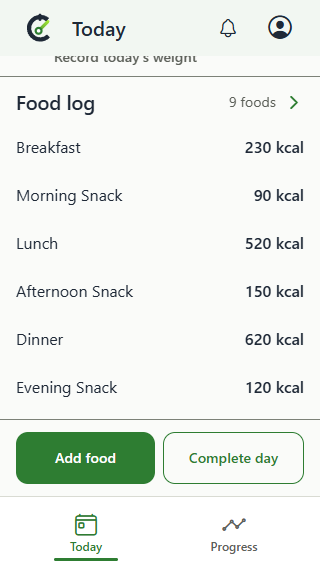
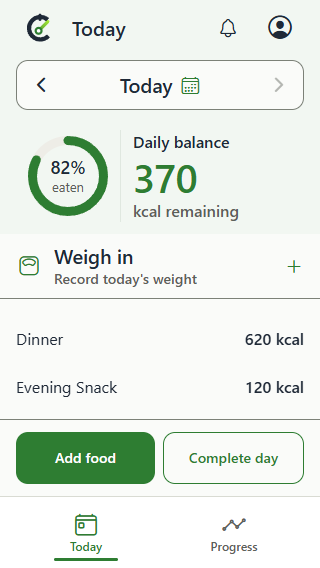
Keep Today summary fixed while the food log scrolls

diff --git a/mobile/src/components/FixedPage.tsx b/mobile/src/components/FixedPage.tsx
@@ -21,7 +21,7 @@ type FixedPageProps = {
     children: React.ReactNode | ((layout: FixedPageLayout) => React.ReactNode);
     footer?: React.ReactNode | ((layout: FixedPageLayout) => React.ReactNode);
     scrollWhenShort?: boolean;
-    intrinsicBody?: boolean;
+    containedBody?: boolean;
     minBodyHeight?: number;
     contentWidth?: 'overview' | 'wide';
     fullWidthBody?: boolean;
@@ -30,7 +30,7 @@ type FixedPageProps = {
 };
 
 /** A full-page composition within the measured app shell; tabs already own the bottom inset. */
-export function FixedPage({ context, children, footer, scrollWhenShort = false, intrinsicBody = false, minBodyHeight = 120, contentWidth = 'overview', fullWidthBody = false, fullWidthFooter = false, testID }: FixedPageProps) {
+export function FixedPage({ context, children, footer, scrollWhenShort = false, containedBody = false, minBodyHeight = 120, contentWidth = 'overview', fullWidthBody = false, fullWidthFooter = false, testID }: FixedPageProps) {
     const theme = useAppTheme();
     const insets = useSafeAreaInsets();
     const { width, fontScale } = useWindowDimensions();
@@ -55,30 +55,36 @@ export function FixedPage({ context, children, footer, scrollWhenShort = false, 
     const updateHeight = (event: LayoutChangeEvent) => setHeight(event.nativeEvent.layout.height);
     const naturalHeight = contextHeight + minBodyHeight;
     const contentHeight = Math.max(scrollHeight, naturalHeight);
+    const containBody = containedBody && !expanded;
     const footerContent = typeof footer === 'function' ? footer({ expanded }) : footer;
+
+    const pageContent = <>
+        {context && <View style={{ backgroundColor: theme.colors.summaryContainer }} onLayout={(event) => setContextHeight(event.nativeEvent.layout.height)}>
+            <View style={columnStyle}>{context}</View>
+        </View>}
+        <View style={[!fullWidthBody && columnStyle, styles.body, { minHeight: minBodyHeight }, expanded && styles.bodyExpanded, containBody && styles.bodyContained]}>
+            {typeof children === 'function' ? children({ expanded }) : children}
+        </View>
+        {expanded && footerContent && <View style={[styles.footer, { borderTopColor: theme.colors.outline }]}><View style={!fullWidthFooter && columnStyle}>{footerContent}</View></View>}
+    </>;
 
     return <ColumnStyleContext.Provider value={columnStyle}><View testID={testID} style={[styles.root, { backgroundColor: theme.colors.background }]} onLayout={updateHeight}>
         {Platform.OS === 'web' && <Text ref={probe} aria-hidden accessibilityElementsHidden importantForAccessibility="no-hide-descendants" onLayout={readTextScale} style={styles.probe}>M</Text>}
-        <ScrollView
+        {containBody ? <View role="main" testID="fixed-page-content" style={styles.scroller}>
+            {pageContent}
+        </View> : <ScrollView
             role="main"
             testID="fixed-page-scroll"
             style={styles.scroller}
-            contentContainerStyle={[styles.scrollContent, !expanded && scrollHeight > 0 && (intrinsicBody
-                ? { minHeight: contentHeight }
-                : { height: contentHeight })]}
+            contentContainerStyle={[styles.scrollContent, !expanded && scrollHeight > 0 && { height: contentHeight }]}
             onLayout={(event) => { setScrollHeight(event.nativeEvent.layout.height); readTextScale(); }}
             keyboardShouldPersistTaps="handled"
         >
-            {context && <View style={{ backgroundColor: theme.colors.summaryContainer }} onLayout={(event) => setContextHeight(event.nativeEvent.layout.height)}>
-                <View style={columnStyle}>{context}</View>
-            </View>}
-            <View style={[!fullWidthBody && columnStyle, styles.body, { minHeight: minBodyHeight }, expanded && styles.bodyExpanded, intrinsicBody && styles.bodyIntrinsic]}>
-                {typeof children === 'function' ? children({ expanded }) : children}
-            </View>
-            {expanded && footerContent && <View style={[styles.footer, { borderTopColor: theme.colors.outline }]}><View style={!fullWidthFooter && columnStyle}>{footerContent}</View></View>}
-        </ScrollView>
+            {pageContent}
+        </ScrollView>}
         {!expanded && footerContent && <View style={[styles.footer, { borderTopColor: theme.colors.outline }]}><View style={!fullWidthFooter && columnStyle}>{footerContent}</View></View>}
     </View></ColumnStyleContext.Provider>;
+
 }
 
 const styles = StyleSheet.create({
@@ -88,8 +94,8 @@ const styles = StyleSheet.create({
     column: { width: '100%', alignSelf: 'center', minWidth: 0 },
     body: { flex: 1 },
     bodyExpanded: { flexGrow: 0, flexShrink: 0, flexBasis: 'auto' },
-    // Summary rows set their own height; unused space still belongs to the full-width body.
-    bodyIntrinsic: { flexGrow: 1, flexShrink: 0, flexBasis: 'auto' },
+    // Let the body own scrolling within the space left by the fixed context and footer.
+    bodyContained: { minHeight: 0, overflow: 'hidden' },
     footer: { flexShrink: 0, borderTopWidth: StyleSheet.hairlineWidth },
     probe: { position: 'absolute', opacity: 0, fontSize: TEXT_PROBE_SIZE, pointerEvents: 'none' }
 });

diff --git a/mobile/src/today/TodayFoodPreview.tsx b/mobile/src/today/TodayFoodPreview.tsx
@@ -1,5 +1,5 @@
 import React from 'react';
-import { Pressable, StyleSheet, View, type StyleProp, type ViewStyle } from 'react-native';
+import { Pressable, ScrollView, StyleSheet, View, type StyleProp, type ViewStyle } from 'react-native';
 import Ionicons from '@expo/vector-icons/Ionicons';
 import type { FoodLogEntry } from '@calibrate/api-client';
 import { AppText } from '../components/AppText';
@@ -13,9 +13,10 @@ type TodayFoodPreviewProps = {
     entries: FoodLogEntry[];
     onPress: () => void;
     style?: StyleProp<ViewStyle>;
+    expanded?: boolean;
 };
 
-export function TodayFoodPreview({ entries, onPress, style }: TodayFoodPreviewProps) {
+export function TodayFoodPreview({ entries, onPress, style, expanded = false }: TodayFoodPreviewProps) {
     const theme = useAppTheme();
     const styles = React.useMemo(() => createStyles(theme), [theme]);
     const meals = React.useMemo(() => getTodayFoodMeals(entries), [entries]);
@@ -26,7 +27,7 @@ export function TodayFoodPreview({ entries, onPress, style }: TodayFoodPreviewPr
         `${formatMealPeriod(meal.meal)}, ${meal.entryCount ? formatCalories(meal.calories) : 'No entries'}.`
     )).join(' ') : 'No food logged yet.';
 
-    return <Pressable
+    const content = <Pressable
         testID="today-food-preview"
         accessibilityRole="button"
         accessibilityLabel={`Food log. ${foodCount}. ${accessibleMeals} View full log`}
@@ -62,10 +63,24 @@ export function TodayFoodPreview({ entries, onPress, style }: TodayFoodPreviewPr
             </View>}
         </FixedPageColumn>
     </Pressable>;
+
+    if (expanded) return content;
+    return <ScrollView
+        testID="today-food-scroll"
+        style={styles.scroller}
+        contentContainerStyle={styles.scrollContent}
+        keyboardShouldPersistTaps="handled"
+        bounces={false}
+        overScrollMode="never"
+    >
+        {content}
+    </ScrollView>;
 }
 
 function createStyles(theme: AppTheme) {
     return StyleSheet.create({
+        scroller: { flex: 1, minHeight: 0 },
+        scrollContent: { flexGrow: 1 },
         // Grow the hit target into spare page space while keeping all meal rows at their natural height.
         root: { flexGrow: 1, flexShrink: 0, flexBasis: 'auto', width: '100%', paddingTop: theme.spacing.md, paddingBottom: theme.spacing.sm },
         heading: { flexDirection: 'row', alignItems: 'center', gap: theme.spacing.sm, marginBottom: theme.spacing.sm },

diff --git a/e2e/expo-web/fixed-page-layout.spec.ts b/e2e/expo-web/fixed-page-layout.spec.ts
@@ -82,7 +82,7 @@ test('Today anchors its actions, puts weigh-in first, and shows concise chronolo
   await expect(page).toHaveURL((url) => url.pathname === '/food-log');
 });
 
-test('320px short Today scrolls every meal above its visible action dock', async ({ page, ux }, testInfo) => {
+test('320px Today scrolls only the food pane while its surrounding controls stay fixed', async ({ page, ux }, testInfo) => {
   test.skip(testInfo.project.name !== 'compact-phone-chrome', 'The minimum-height phone case is covered once.');
   await page.setViewportSize({ width: 320, height: 568 });
   await ux.install('populated', { foodDayStatus: 'OPEN', foodEntries: FOOD_ENTRIES, metrics: [] });
@@ -93,12 +93,30 @@ test('320px short Today scrolls every meal above its visible action dock', async
   await expectTouchTarget(addFood);
   const dock = (await page.getByTestId('today-action-dock').boundingBox())!;
   expect(dock.y + dock.height).toBeLessThanOrEqual(568);
+  const fixedControls = [
+    page.getByRole('toolbar', { name: 'Food log date' }),
+    page.getByTestId('calorie-balance-hero'),
+    page.getByTestId('today-weight-card-press-layer'),
+    page.getByTestId('today-action-dock'),
+  ];
+  const before = await Promise.all(fixedControls.map(control => control.boundingBox()));
+  const foodScroll = page.getByTestId('today-food-scroll');
+  await expect(page.getByTestId('fixed-page-scroll')).toHaveCount(0);
+  await foodScroll.hover();
+  await page.mouse.wheel(0, 800);
+  await expect.poll(() => foodScroll.evaluate(element => element.scrollTop)).toBeGreaterThan(0);
+  const after = await Promise.all(fixedControls.map(control => control.boundingBox()));
+  expect(after).toEqual(before);
+  await expect(page).toHaveURL(url => url.pathname === '/today');
   const lastMeal = page.getByTestId('food-preview-meal-EVENING_SNACK');
-  await lastMeal.scrollIntoViewIfNeeded();
   await expect(lastMeal).toBeInViewport();
   const latestRow = (await lastMeal.boundingBox())!;
   expect(latestRow.y + latestRow.height).toBeLessThanOrEqual(dock.y);
+  await foodScroll.hover();
+  await page.mouse.wheel(0, 800);
+  expect(await Promise.all(fixedControls.map(control => control.boundingBox()))).toEqual(before);
   await expectNoHorizontalOverflow(page);
+  await page.mouse.move(0, 0);
   await page.screenshot({ path: testInfo.outputPath('today-320x568.png') });
 });
 

diff --git a/mobile/app/(tabs)/(today)/today.tsx b/mobile/app/(tabs)/(today)/today.tsx
@@ -143,7 +143,7 @@ export default function TodayScreen() {
             testID="today-fixed-page"
             fullWidthBody={dashboardState.kind !== ASYNC_RESOURCE_STATES.ERROR}
             minBodyHeight={TODAY_BODY_MIN_HEIGHT}
-            intrinsicBody
+            containedBody={dashboardState.kind !== ASYNC_RESOURCE_STATES.ERROR}
             context={<>
                 <DateNavigation
                     navigation={dateNavigation}
@@ -170,8 +170,8 @@ export default function TodayScreen() {
                 <AppButton title="Complete day" variant="secondary" disabled style={styles.loadingAction} />
             </View>}
         >
-            <AsyncStateBoundary
-                contentStyle={styles.body}
+            {({ expanded }) => <AsyncStateBoundary
+                contentStyle={[styles.body, expanded && styles.bodyExpanded]}
                 state={dashboardState}
                 resourceLabel="today's log"
                 loading={<TodayContentLoading />}
@@ -183,8 +183,8 @@ export default function TodayScreen() {
                 suppressStaleNotice
             >
                 <TodayWeightCard metric={selectedDateMetric} weightUnit={user?.weight_unit} isToday={isToday} onPress={openWeightEntry} />
-                <TodayFoodPreview entries={entries} onPress={() => router.push({ pathname: '/food-log', params: { date: selectedDate } })} />
-            </AsyncStateBoundary>
+                <TodayFoodPreview entries={entries} expanded={expanded} onPress={() => router.push({ pathname: '/food-log', params: { date: selectedDate } })} />
+            </AsyncStateBoundary>}
         </FixedPage>
             <AddFoodSheet
                 visible={addFoodMeal !== undefined && canAddFood}
@@ -212,7 +212,8 @@ function TodayContentLoading() {
 }
 
 const styles = StyleSheet.create({
-    body: { flexGrow: 1, flexShrink: 0, flexBasis: 'auto', gap: 0 },
+    body: { flex: 1, minHeight: 0, gap: 0 },
+    bodyExpanded: { flexGrow: 0, flexShrink: 0, flexBasis: 'auto' },
     dateNavigation: { paddingTop: spacing.xs, paddingBottom: spacing.sm },
     planAction: { paddingBottom: spacing.md, gap: spacing.sm },
     loadingActions: { flexDirection: 'row', paddingVertical: spacing.md, gap: spacing.sm },

diff --git a/mobile/src/today/TodayFoodPreview.test.tsx b/mobile/src/today/TodayFoodPreview.test.tsx
@@ -11,6 +11,7 @@ describe('TodayFoodPreview', () => {
         const screen = render(<TodayFoodPreview entries={[]} onPress={onPress} />);
         const preview = screen.getByRole('button', { name: /Food log\. 0 foods\./ });
         expect(screen.getAllByRole('button')).toHaveLength(1);
+        expect(screen.getByTestId('today-food-scroll')).toBeTruthy();
         expect(screen.getByText('No food logged yet')).toBeTruthy();
         expect(screen.queryByText('No entries')).toBeNull();
         expect(preview).toHaveStyle({ flexGrow: 1, flexShrink: 0, flexBasis: 'auto', width: '100%' });

diff --git a/docs/screenshots/meal-summary-rows/README.md b/docs/screenshots/meal-summary-rows/README.md
@@ -3,7 +3,7 @@
 Today summarizes the six meal periods without individual food items. Empty periods use
 neutral "No entries" text; zero-calorie entries still show a logged total. The entire
 food pane, including spare height and side gutters, opens the detailed log. Short
-screens scroll the complete rows above the action dock.
+screens scroll only the food pane, with the date, daily balance, weight, and action dock fixed. Enlarged text retains the full-page accessibility fallback when those controls cannot fit.
 
 Food log, Activity, and Weight use the same continuous navbar surface and unified date
 toolbar as Today, while retaining their route widths and date behavior. The detailed Food log also displays empty meal periods as compact "No entries" rows, including all six periods on an empty day.
@@ -19,7 +19,7 @@ Additional evidence:
 - [Tall desktop with spare space inside the food navigation pane](today-tall-desktop.png)
 
 Browser regression checks verify the bottom-right blank area navigates to Food log,
-all six rows remain reachable at 320px and 200% text, and the date toolbar keeps its
+all six rows remain reachable at 320px and 200% text, wheel input scrolls only the food pane without moving surrounding controls, and the date toolbar keeps its
 vertical position and continuous navbar surface across Today, Food log, Activity,
 and Weight. These screenshots use deterministic test data; native device runtime
 validation is separate.

diff --git a/docs/visual-design.md b/docs/visual-design.md
@@ -68,8 +68,9 @@ a child beyond a narrow parent, since native hit testing would still stop at tha
   **No entries**; zero-calorie foods still count as logged. Use the shared 48px row rhythm without
   individual food names, row actions, omission counts, or height-based fitting. A completely empty
   day shows **No food logged yet** and an invitation to add food. Rows retain intrinsic height and
-  scroll with the page on short screens or at enlarged text sizes; never create a clipped or
-  separately scrolling food panel. Extra height expands the tap target, not the spacing between rows.
+  scroll inside the food pane on short screens, keeping the date, balance, weight, and action dock
+  fixed. Extra height expands the tap target, not the spacing between rows. Enlarged text retains
+  the full-page accessibility fallback when the fixed controls cannot fit.
 - Anchor equal-width **Add food** (filled) and **Complete day** (outlined) controls above the tabs on
   an open day. Add food opens the existing inline search/quantity workflow without navigating away.
   Complete day applies immediately without a confirmation dialog because the action is reversible.
